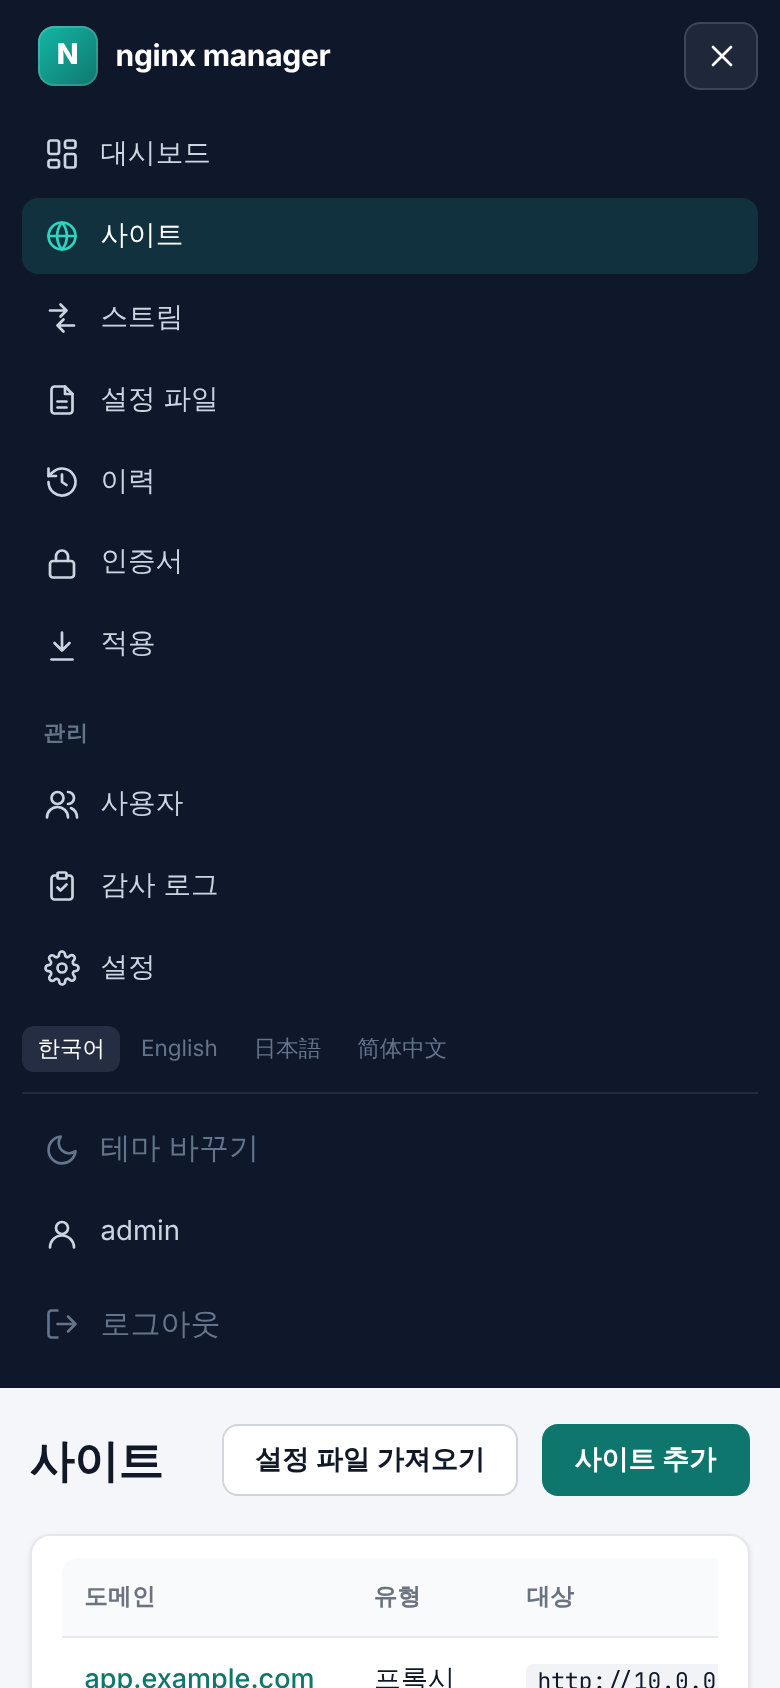
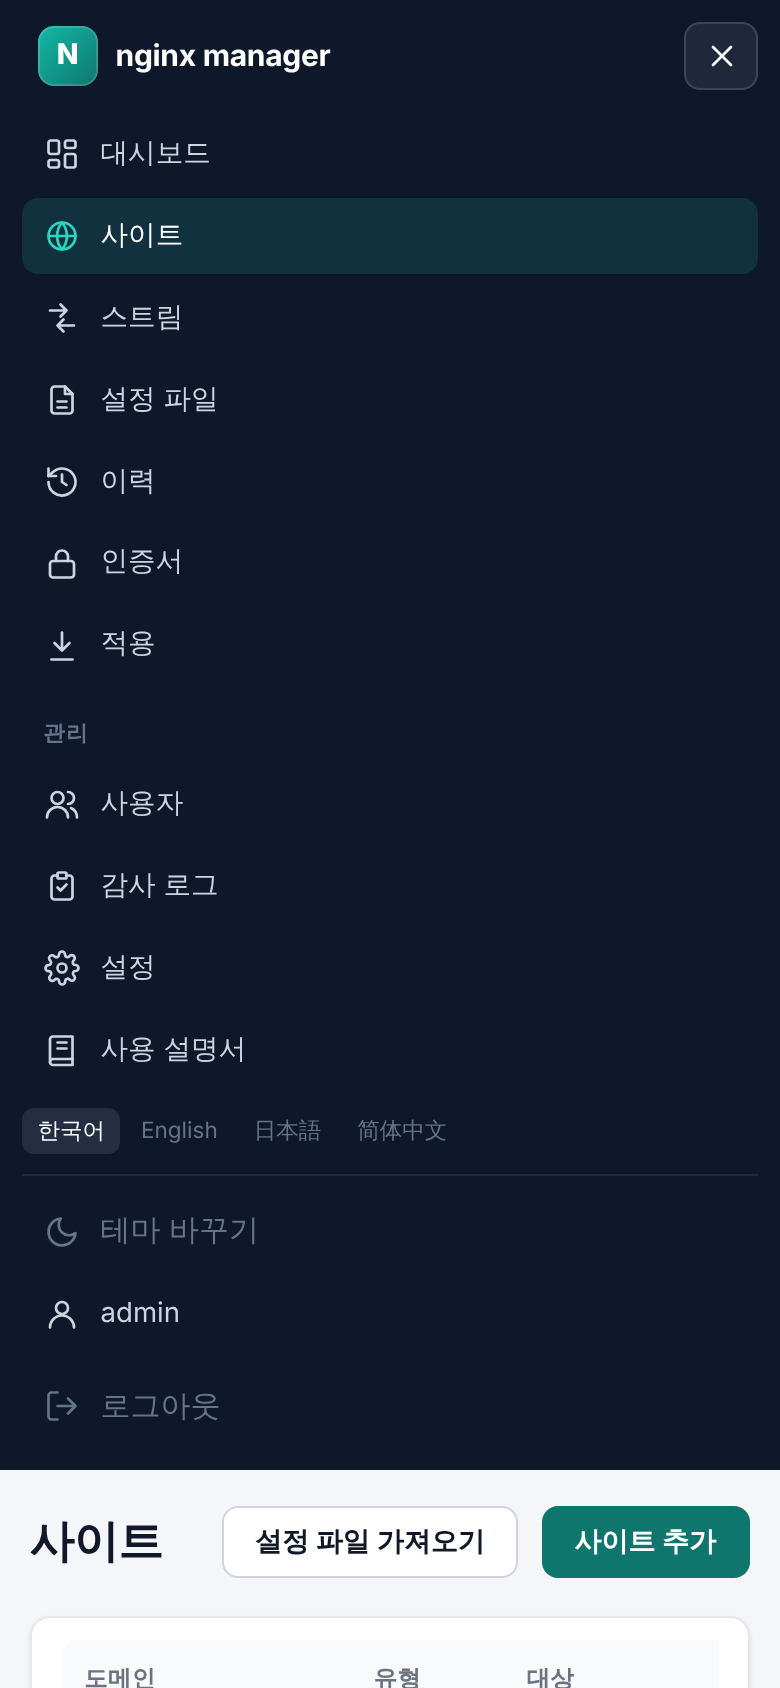
왼쪽 메뉴에 사용 설명서, footer 버전 링크에 GitHub 아이콘
Claude-Session: https://claude.ai/code/session_01Xx9UjmFxa6PwMWkaLNmHo7

diff --git a/src/main/resources/templates/fragments/layout.html b/src/main/resources/templates/fragments/layout.html
@@ -27,6 +27,7 @@
         <a th:if="${currentUser != null and currentUser.isAdmin()}" th:href="@{/users}" th:classappend="${navSection == 'users'} ? 'active'"><svg class="icon" viewBox="0 0 24 24" aria-hidden="true"><circle cx="9" cy="8" r="4"/><path d="M2 21a7 7 0 0 1 14 0M16 4a4 4 0 0 1 0 8M22 21a7 7 0 0 0-4-6.3"/></svg><span th:text="#{nav.users}">사용자</span></a>
         <a th:if="${currentUser != null and currentUser.isAdmin()}" th:href="@{/audit}" th:classappend="${navSection == 'audit'} ? 'active'"><svg class="icon" viewBox="0 0 24 24" aria-hidden="true"><path d="M9 5H7a2 2 0 0 0-2 2v12a2 2 0 0 0 2 2h10a2 2 0 0 0 2-2V7a2 2 0 0 0-2-2h-2"/><rect x="9" y="3" width="6" height="4" rx="1"/><path d="M9 13l2 2 4-4"/></svg><span th:text="#{nav.audit}">감사 로그</span></a>
         <a th:if="${currentUser != null and currentUser.isAdmin()}" th:href="@{/settings/notifications}" th:classappend="${navSection == 'settings'} ? 'active'"><svg class="icon" viewBox="0 0 24 24" aria-hidden="true"><circle cx="12" cy="12" r="3"/><path d="M19.4 15a1.7 1.7 0 0 0 .3 1.8l.1.1a2 2 0 1 1-2.8 2.8l-.1-.1a1.7 1.7 0 0 0-1.8-.3 1.7 1.7 0 0 0-1 1.5V21a2 2 0 1 1-4 0v-.1a1.7 1.7 0 0 0-1.1-1.5 1.7 1.7 0 0 0-1.8.3l-.1.1a2 2 0 1 1-2.8-2.8l.1-.1a1.7 1.7 0 0 0 .3-1.8 1.7 1.7 0 0 0-1.5-1H3a2 2 0 1 1 0-4h.1a1.7 1.7 0 0 0 1.5-1.1 1.7 1.7 0 0 0-.3-1.8l-.1-.1a2 2 0 1 1 2.8-2.8l.1.1a1.7 1.7 0 0 0 1.8.3H9a1.7 1.7 0 0 0 1-1.5V3a2 2 0 1 1 4 0v.1a1.7 1.7 0 0 0 1 1.5 1.7 1.7 0 0 0 1.8-.3l.1-.1a2 2 0 1 1 2.8 2.8l-.1.1a1.7 1.7 0 0 0-.3 1.8V9a1.7 1.7 0 0 0 1.5 1H21a2 2 0 1 1 0 4h-.1a1.7 1.7 0 0 0-1.5 1z"/></svg><span th:text="#{nav.settings}">설정</span></a>
+        <a class="nav-manual" th:href="${appVersion.manualUrl()}" target="_blank" rel="noopener"><svg class="icon" viewBox="0 0 24 24" aria-hidden="true"><path d="M4 5a2 2 0 0 1 2-2h13v15H6a2 2 0 0 0-2 2z"/><path d="M4 20a2 2 0 0 0 2 2h13v-4M9 7h6M9 11h6"/></svg><span th:text="#{nav.manual}">사용 설명서</span></a>
     </div>
     <span class="spacer"></span>
     <div class="langs" th:fragment="langs" th:aria-label="#{nav.language}">
@@ -56,7 +57,7 @@
 </th:block>
 <footer class="footer" th:fragment="footer">
     <span>nginx manager</span>
-    <a th:href="${appVersion.releaseNotesUrl()}" th:text="${appVersion.label()}" th:title="#{footer.releaseNotes}" target="_blank" rel="noopener">v1.0.0</a>
+    <a th:href="${appVersion.releaseNotesUrl()}" th:title="#{footer.releaseNotes}" target="_blank" rel="noopener"><svg class="icon icon-github" viewBox="0 0 16 16" aria-hidden="true"><path d="M8 0C3.58 0 0 3.58 0 8c0 3.54 2.29 6.53 5.47 7.59.4.07.55-.17.55-.38 0-.19-.01-.82-.01-1.49-2.01.37-2.53-.49-2.69-.94-.09-.23-.48-.94-.82-1.13-.28-.15-.68-.52-.01-.53.63-.01 1.08.58 1.23.82.72 1.21 1.87.87 2.33.66.07-.52.28-.87.51-1.07-1.78-.2-3.64-.89-3.64-3.95 0-.87.31-1.59.82-2.15-.08-.2-.36-1.02.08-2.12 0 0 .67-.21 2.2.82.64-.18 1.32-.27 2-.27.68 0 1.36.09 2 .27 1.53-1.04 2.2-.82 2.2-.82.44 1.1.16 1.92.08 2.12.51.56.82 1.27.82 2.15 0 3.07-1.87 3.75-3.65 3.95.29.25.54.73.54 1.48 0 1.07-.01 1.93-.01 2.2 0 .21.15.46.55.38A8.013 8.013 0 0 0 16 8c0-4.42-3.58-8-8-8z"/></svg><span th:text="${appVersion.label()}">v1.0.0</span></a>
     <span aria-hidden="true">·</span>
     <a th:href="${appVersion.manualUrl()}" th:text="#{footer.manual}" target="_blank" rel="noopener">사용 설명서</a>
 </footer>

diff --git a/src/main/resources/static/css/app.css b/src/main/resources/static/css/app.css
@@ -463,4 +463,5 @@ body > footer, .footer { padding: 1.25rem 2rem 2rem; text-align: center; color: 
     .js .nav.open .langs a { width: auto; }
 }
 .footer { box-sizing: border-box; width: calc(100% - 4rem); max-width: calc(1200px - 4rem); margin: 0 auto; padding: .75rem 0 1.5rem; display: flex; gap: .5rem; color: var(--muted); font-size: .8rem; border-top: 1px solid var(--line); }
-.footer a { color: var(--muted); }
+.footer a { color: var(--muted); display: inline-flex; align-items: center; gap: .3rem; }
+.footer .icon-github { width: 14px; height: 14px; fill: currentColor; stroke: none; }

diff --git a/src/test/java/net/nginxmanager/dashboard/DashboardTest.java b/src/test/java/net/nginxmanager/dashboard/DashboardTest.java
@@ -141,8 +141,10 @@ class DashboardTest extends ConfigRootTest {
         mvc.perform(get("/").with(user("v").roles("VIEWER")))
                 .andExpect(status().isOk())
                 .andExpect(content().string(containsString("<footer class=\"footer\">")))
-                .andExpect(content().string(containsString(">dev</a>")))
-                .andExpect(content().string(containsString("href=\"" + AppVersion.MANUAL_URL + "\"")));
+                .andExpect(content().string(containsString(">dev</span></a>")))
+                .andExpect(content().string(containsString("class=\"icon icon-github\"")))
+                .andExpect(content().string(containsString("class=\"nav-manual\" href=\"" + AppVersion.MANUAL_URL + "\"")))
+                .andExpect(content().string(containsString("href=\"" + AppVersion.MANUAL_URL + "\" target=\"_blank\" rel=\"noopener\">사용 설명서</a>\n</footer>")));
         mvc.perform(get("/login"))
                 .andExpect(status().isOk())
                 .andExpect(content().string(not(containsString("<footer"))));

diff --git a/docs/manual/02-getting-started.md b/docs/manual/02-getting-started.md
@@ -28,12 +28,12 @@
 
 <p align="center"><img src="images/dashboard.png" alt="로그인한 뒤의 대시보드" width="860"></p>
 
-- **왼쪽 메뉴**: 대시보드, 사이트, 스트림, 설정 파일, 이력, 인증서, 적용이 있습니다. 관리자에게는 **관리** 아래에 사용자, 감사 로그, 설정이 더 보입니다. 적용 메뉴 옆의 숫자는 아직 적용하지 않은 초안 수입니다. 보기 전용 사용자에게는 적용 메뉴가 보이지 않습니다.
+- **왼쪽 메뉴**: 대시보드, 사이트, 스트림, 설정 파일, 이력, 인증서, 적용이 있습니다. 관리자에게는 **관리** 아래에 사용자, 감사 로그, 설정이 더 보입니다. 맨 아래 **사용 설명서**는 이 문서를 새 탭으로 엽니다. 적용 메뉴 옆의 숫자는 아직 적용하지 않은 초안 수입니다. 보기 전용 사용자에게는 적용 메뉴가 보이지 않습니다.
 - **언어**: 메뉴 아래에서 한국어, English, 日本語, 简体中文 중에 고릅니다. 고른 언어는 브라우저에 기억됩니다.
 - **테마 바꾸기**: 밝은 화면과 어두운 화면(다크 모드)을 바꿉니다. 처음에는 운영체제 설정을 따릅니다.
 - **내 계정과 로그아웃**: 메뉴 맨 아래의 아이디를 누르면 [내 계정](#내-계정)으로 갑니다. 그 아래 **로그아웃**이 있습니다.
 - **경고 띠**: nginx 컨테이너에 연결할 수 없거나 두 컨테이너의 버전이 다르면, 또는 서버에서 설정 파일이 직접 바뀌었으면 화면 위에 띠가 나타납니다([13장](13-troubleshooting.md)).
-- **footer**: 화면 맨 아래에 관리도구 버전과 **사용 설명서** 링크가 있습니다. 버전을 누르면 그 버전의 릴리스 노트가, 사용 설명서를 누르면 이 문서가 열립니다.
+- **footer**: 화면 맨 아래에 GitHub 아이콘과 관리도구 버전, **사용 설명서** 링크가 있습니다. 버전을 누르면 GitHub에서 그 버전의 릴리스 노트가, 사용 설명서를 누르면 이 문서가 열립니다.
 
 <p align="center"><img src="images/footer.png" alt="버전과 사용 설명서 링크가 있는 footer" width="300"></p>
 

diff --git a/README.md b/README.md
@@ -2,7 +2,7 @@
 
 브라우저에서 nginx를 관리하는 도구입니다. nginx(오픈소스, 전체 모듈 빌드)와 관리 화면(Spring Boot)이 서로 다른 컨테이너에서 돌기 때문에, 관리 화면을 업데이트하거나 다시 띄워도 nginx는 트래픽을 계속 받습니다.
 
-**사용법은 [사용 설명서](docs/manual/README.md)에 있습니다.** 관리 화면 아래(footer)의 사용 설명서 링크도 이 문서를 엽니다.
+**사용법은 [사용 설명서](docs/manual/README.md)에 있습니다.** 관리 화면 왼쪽 메뉴와 아래(footer)의 사용 설명서 링크도 이 문서를 엽니다.
 
 명세와 설계는 [nginx-manager/docs](https://github.com/nginx-manager/docs)의 `specs/001-nginx-web-manager/`에 있습니다(Spec Kit).
 

diff --git a/docs/manual/README.md b/docs/manual/README.md
@@ -4,7 +4,7 @@
 
 - 기준 버전: **v1.1.0** (관리 화면 아래 footer에 지금 쓰는 버전이 보입니다)
 - 버전별로 바뀐 점은 [릴리스 노트](../releases/README.md)에 있습니다.
-- 관리 화면 아래의 **사용 설명서** 링크가 이 문서를 엽니다.
+- 관리 화면 왼쪽 메뉴와 아래(footer)의 **사용 설명서** 링크가 이 문서를 엽니다.
 
 ## 차례
 
